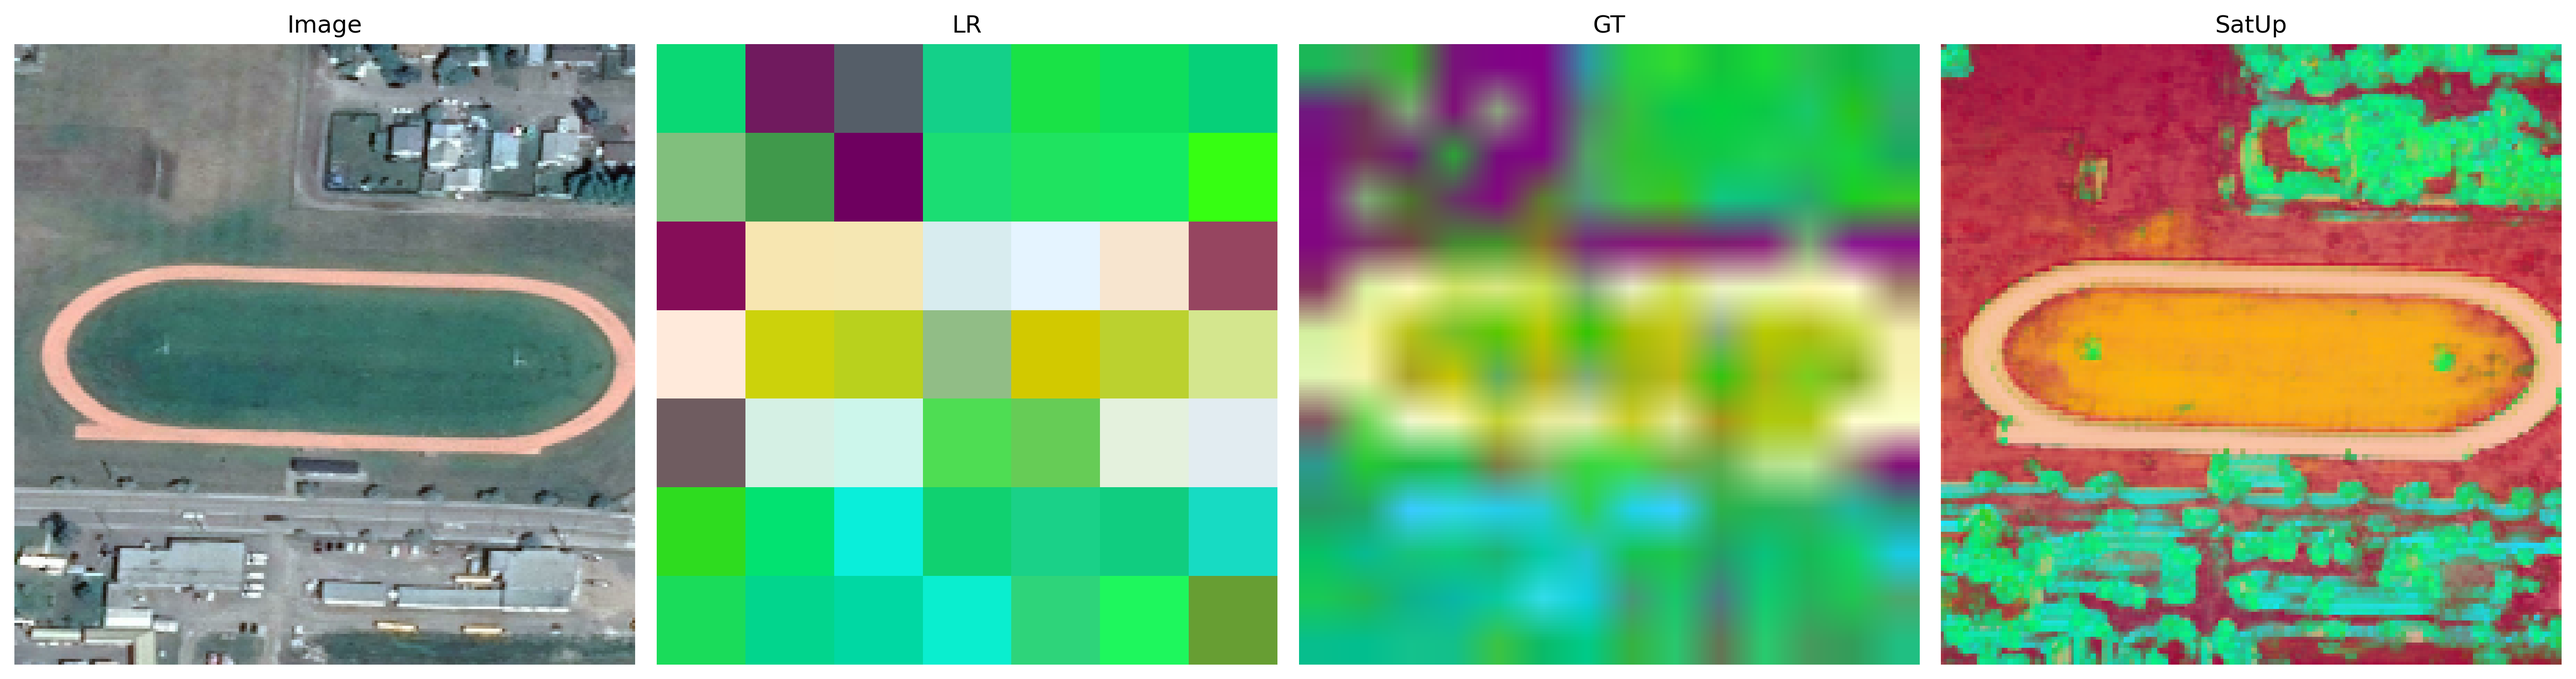
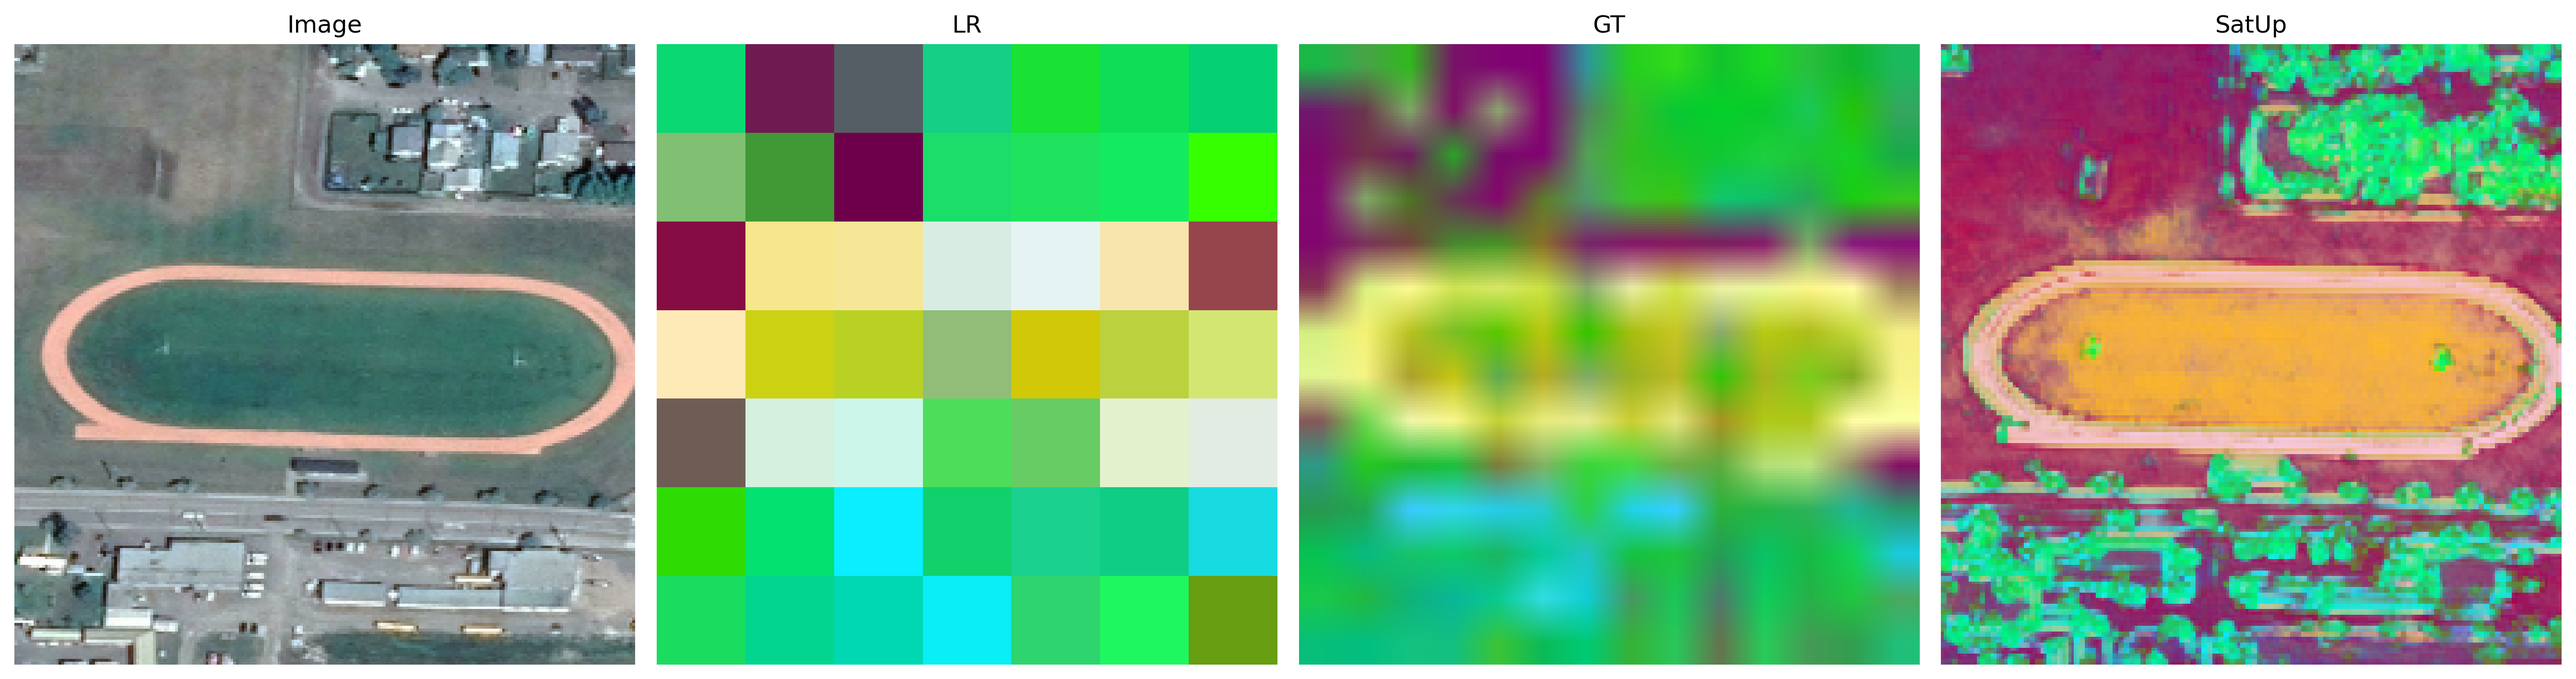
gaoding

diff --git a/satup/model.py b/satup/model.py
@@ -3,24 +3,6 @@ import torch.nn as nn
 import torch.nn.functional as F
 from einops import rearrange
 
-from torch import einsum
-
-class SimpleSatUp(nn.Module):
-    def __init__(self, dim=128, v_dim=768):
-        super().__init__()
-        self.encoder = nn.Conv2d(3, dim, 3, padding=1)
-        self.cross_attn = nn.MultiheadAttention(dim, num_heads=4, batch_first=True)
-        self.output = nn.Conv2d(dim, v_dim, 1)
-        
-    def forward(self, image, features, output_size):
-        x = self.encoder(image)
-        x = F.adaptive_avg_pool2d(x, output_size)
-        B, C, H, W = x.shape
-        x = x.view(B, C, H*W).permute(0, 2, 1)
-        f = features.view(B, features.size(1), -1).permute(0, 2, 1)
-        out, _ = self.cross_attn(x, f, f)
-        out = out.permute(0, 2, 1).view(B, -1, H, W)
-        return self.output(out)
 
 def create_coordinate(h, w, start=0, end=1, device="cuda", dtype=torch.float32):
     # Create a grid of coordinates
@@ -196,7 +178,6 @@ def rotate_half(x):
     x1, x2 = x.chunk(2, dim=-1)
     return torch.cat((-x2, x1), dim=-1)
 
-
 class RoPE(nn.Module):
     def __init__(
         self,
@@ -206,19 +187,22 @@ class RoPE(nn.Module):
         super().__init__()
         self.dim = dim
         self.theta = theta
-        self.freqs = nn.Parameter(torch.empty(2, self.dim))
+        # 改动1: 改为 buffer，不需要梯度，且初始化时自动完成
+        freqs = torch.zeros(2, self.dim)
+        self.register_buffer('freqs', freqs, persistent=False)
+        self._init_freqs()
 
-    def _device_weight_init(self):
+    def _init_freqs(self):
         # Create freqs in 1d
-        freqs_1d = self.theta ** torch.linspace(0, -1, self.dim // 4)
+        freqs_1d = self.theta ** torch.linspace(0, -1, self.dim // 4, device=self.freqs.device)
         # duplicate freqs for rotation pairs of channels
         freqs_1d = torch.cat([freqs_1d, freqs_1d])
         # First half of channels do x, second half do y
-        freqs_2d = torch.zeros(2, self.dim)
+        freqs_2d = torch.zeros(2, self.dim, device=self.freqs.device)
         freqs_2d[0, : self.dim // 2] = freqs_1d
         freqs_2d[1, -self.dim // 2 :] = freqs_1d
         # it's an angular freq here
-        self.freqs.data.copy_(freqs_2d * 2 * torch.pi)
+        self.freqs.copy_(freqs_2d * 2 * torch.pi)
 
     def forward(self, x: torch.Tensor, coords: torch.Tensor) -> torch.Tensor:
         angle = coords @ self.freqs
@@ -273,7 +257,7 @@ class SatUp(nn.Module):
         self.sft_key = SFT(dim, dim)
 
         self.rope = RoPE(dim)
-        self.rope._device_weight_init()
+        # self.rope._device_weight_init()
 
     def upsample(self, encoded_image, features, output_size):
         _, _, h, w = features.shape
@@ -286,10 +270,10 @@ class SatUp(nn.Module):
         # Process Keys and Values.
         keys = self.key_encoder(encoded_image)
         keys = F.adaptive_avg_pool2d(keys, output_size=(h, w))
-        keys = self.sft_key(
-            keys, self.key_features_encoder(F.normalize(features, dim=1))
-        )
-        # keys = self.sft_key(keys, self.key_features_encoder(features))
+        # keys = self.sft_key(
+        #     keys, self.key_features_encoder(F.normalize(features, dim=1))
+        # )
+        keys = self.sft_key(keys, self.key_features_encoder(features))
 
         # Values
         values = features

diff --git a/model.py b/model.py
@@ -57,14 +57,11 @@ class DenseClip(nn.Module):
         elif upsampler == "satup":
             # 直接使用 SatUp，不再通过 Wrapper，确保与 infer.py 调用方式一致
             self.up = SatUp(dim=128, v_dim=768).to(self.device)
-            ckpt = torch.load("satup_22.pth", map_location=self.device)
+            ckpt = torch.load("satup_a_15.pth", map_location=self.device)
             self.up.load_state_dict(ckpt, strict=True)
             self.up.eval()
         elif upsampler == "gfup":
             self.up = GaussianUpsamplerWrapper()
-        elif upsampler == "featup":
-            hub_model = load_featup_upsampler(device=self.device)
-            self.up = lambda g, f: hub_model(g, f)
 
         if self.only_clear is not False:
             self.up = None
@@ -189,7 +186,8 @@ class DenseClip(nn.Module):
         # --- 其他上采样器（或 only_clear）保持原有逻辑 ---
         # 注意：原有逻辑是从高分辨率图像 x 提取特征，然后上采样
         lr_features = self._extract_clearclip_features(x)  # 高分辨率下的低分辨率特征图
-        guide = hr_guide if hr_guide is not None else x
+        # guide = hr_guide if hr_guide is not None else x
+        guide = x
 
         if self.up is not None:
             up_features = self.up(guide, lr_features)

diff --git a/infer.py b/infer.py
@@ -73,7 +73,7 @@ def parse_args():
     parser = argparse.ArgumentParser()
     default_device = "cuda" if torch.cuda.is_available() else "cpu"
     parser.add_argument("--device", type=str, default=default_device)
-    parser.add_argument("--filename", type=str, default="asset/1388.png")
+    parser.add_argument("--filename", type=str, default="asset/img3.jpg")
     parser.add_argument("--window_size", type=int, default=224, help="CLIP 窗口大小")
     parser.add_argument(
         "--stride", type=int, default=112, help="步长，推荐窗口的一半实现重叠"
@@ -114,7 +114,7 @@ def main():
     legend_colors = [tuple(c / 255 for c in color) for color in custom_palette]
 
     # 加载模型
-    model = DenseClip("ViT-B-16", classnames, device=args.device, upsampler="anyup")
+    model = DenseClip("ViT-B-16", classnames, device=args.device, upsampler="satup")
     # print(model)
     model.eval()
 
@@ -182,7 +182,7 @@ def main():
 
         # 2. 执行全局 Dense CRF 优化 (核心步骤)
         print(">>> 正在运行全局 Dense CRF 优化，请稍候...")
-        probs_np = apply_dense_crf(img_np, probs_np)
+        # probs_np = apply_dense_crf(img_np, probs_np)
 
         # 3. 最终类别判定
         max_idx = probs_np.argmax(axis=0)

diff --git a/satup/infer.py b/satup/infer.py
@@ -238,7 +238,7 @@ def main(args):
 if __name__ == "__main__":
     parser = argparse.ArgumentParser()
     parser.add_argument("--image", default="asset/P0016654.jpg")
-    parser.add_argument("--weight", default="satup_22.pth")
+    parser.add_argument("--weight", default="satup_a_15.pth")
     parser.add_argument("--save_dir", default="results")
     parser.add_argument("--output_size", type=int, default=224)
 
